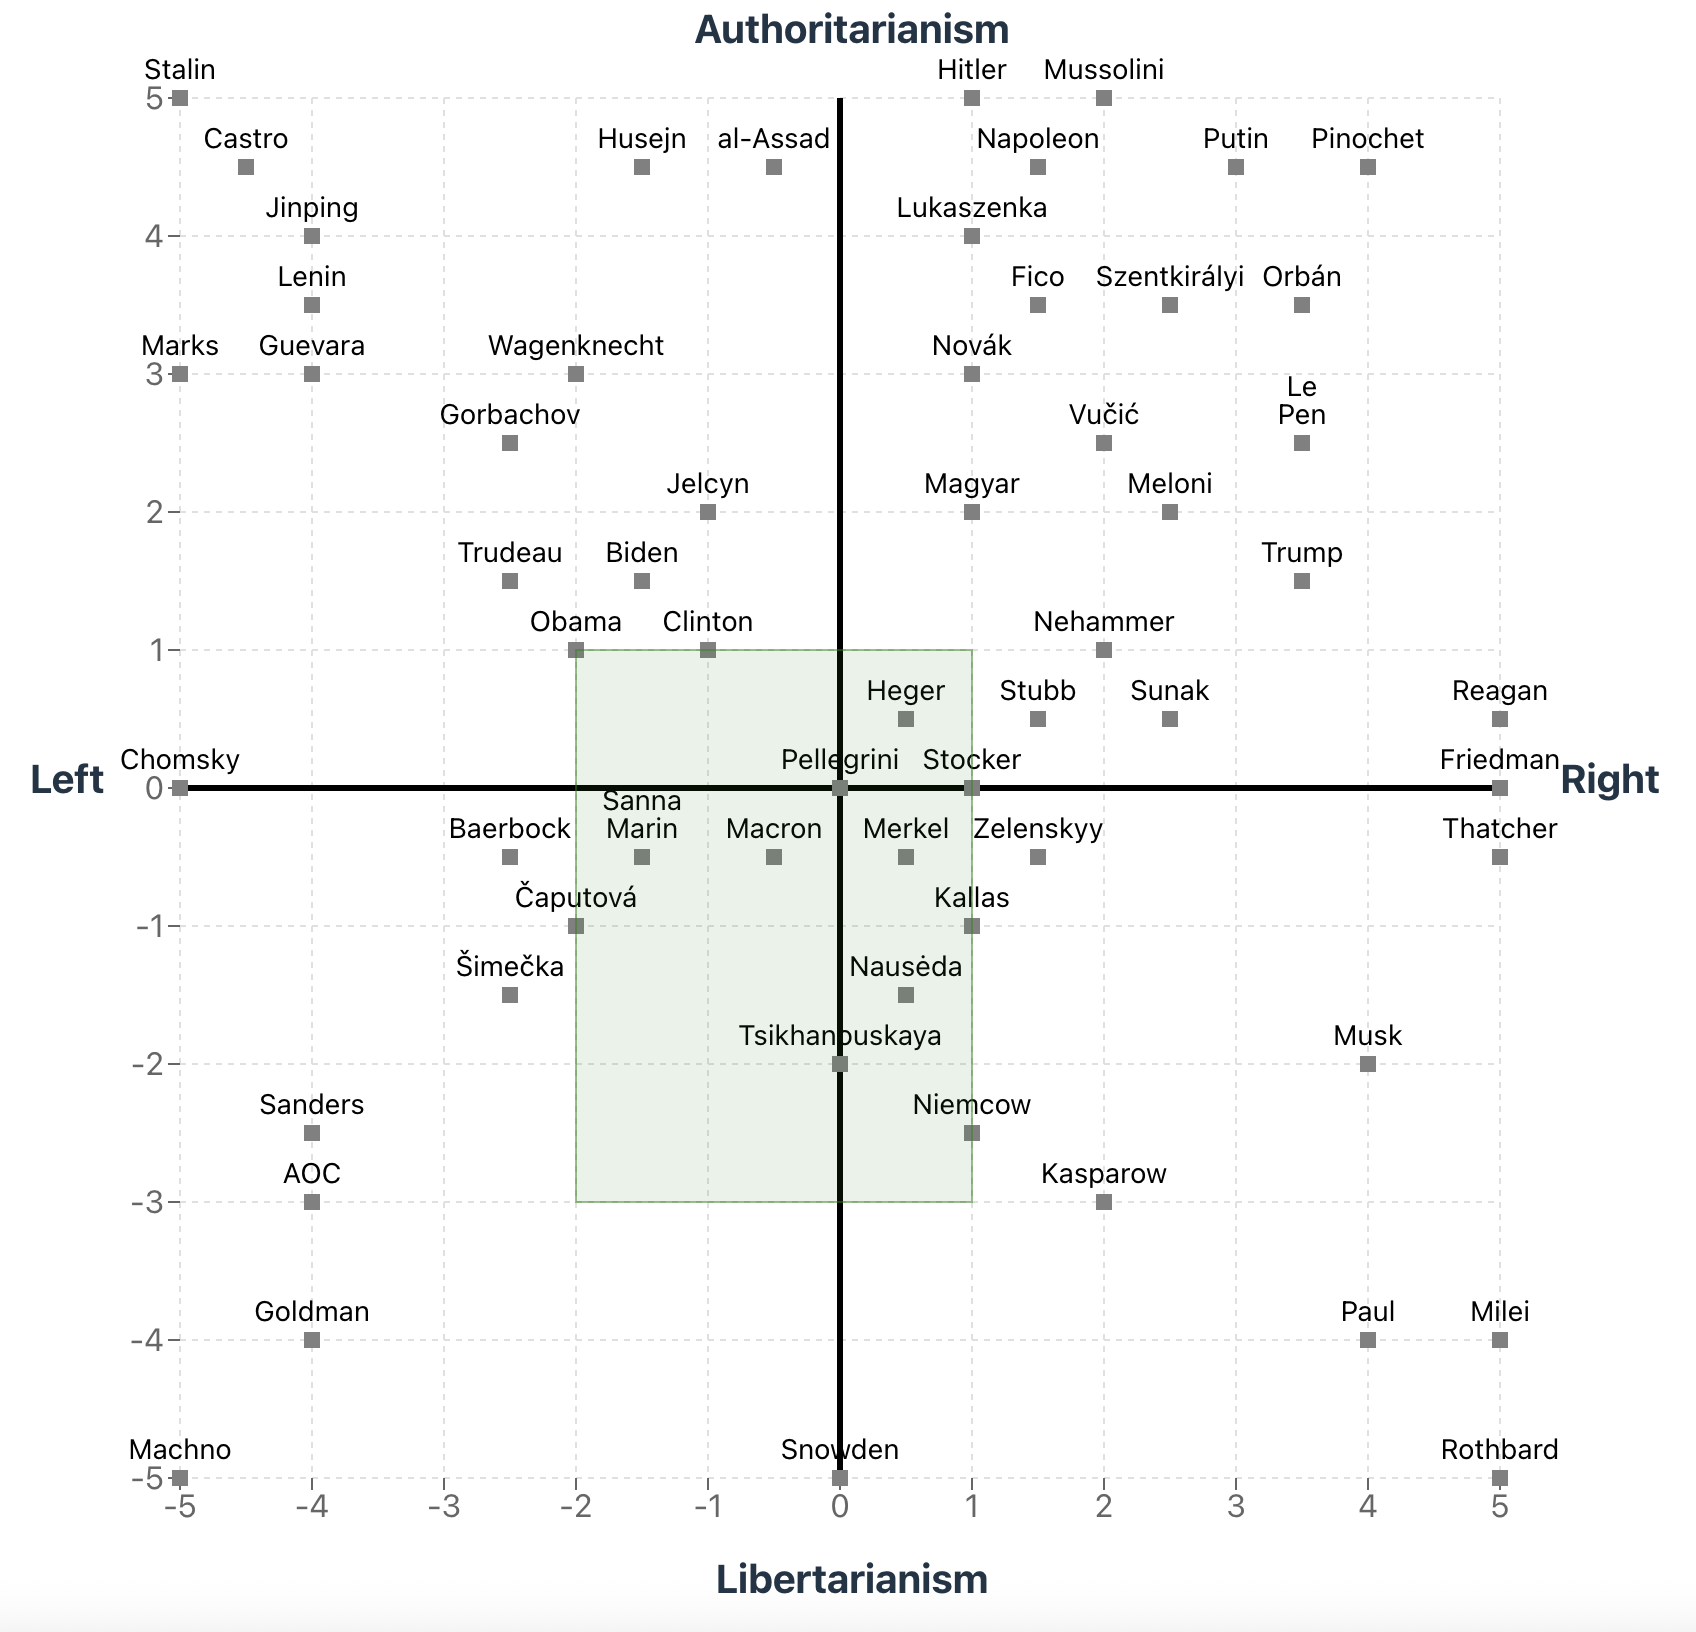
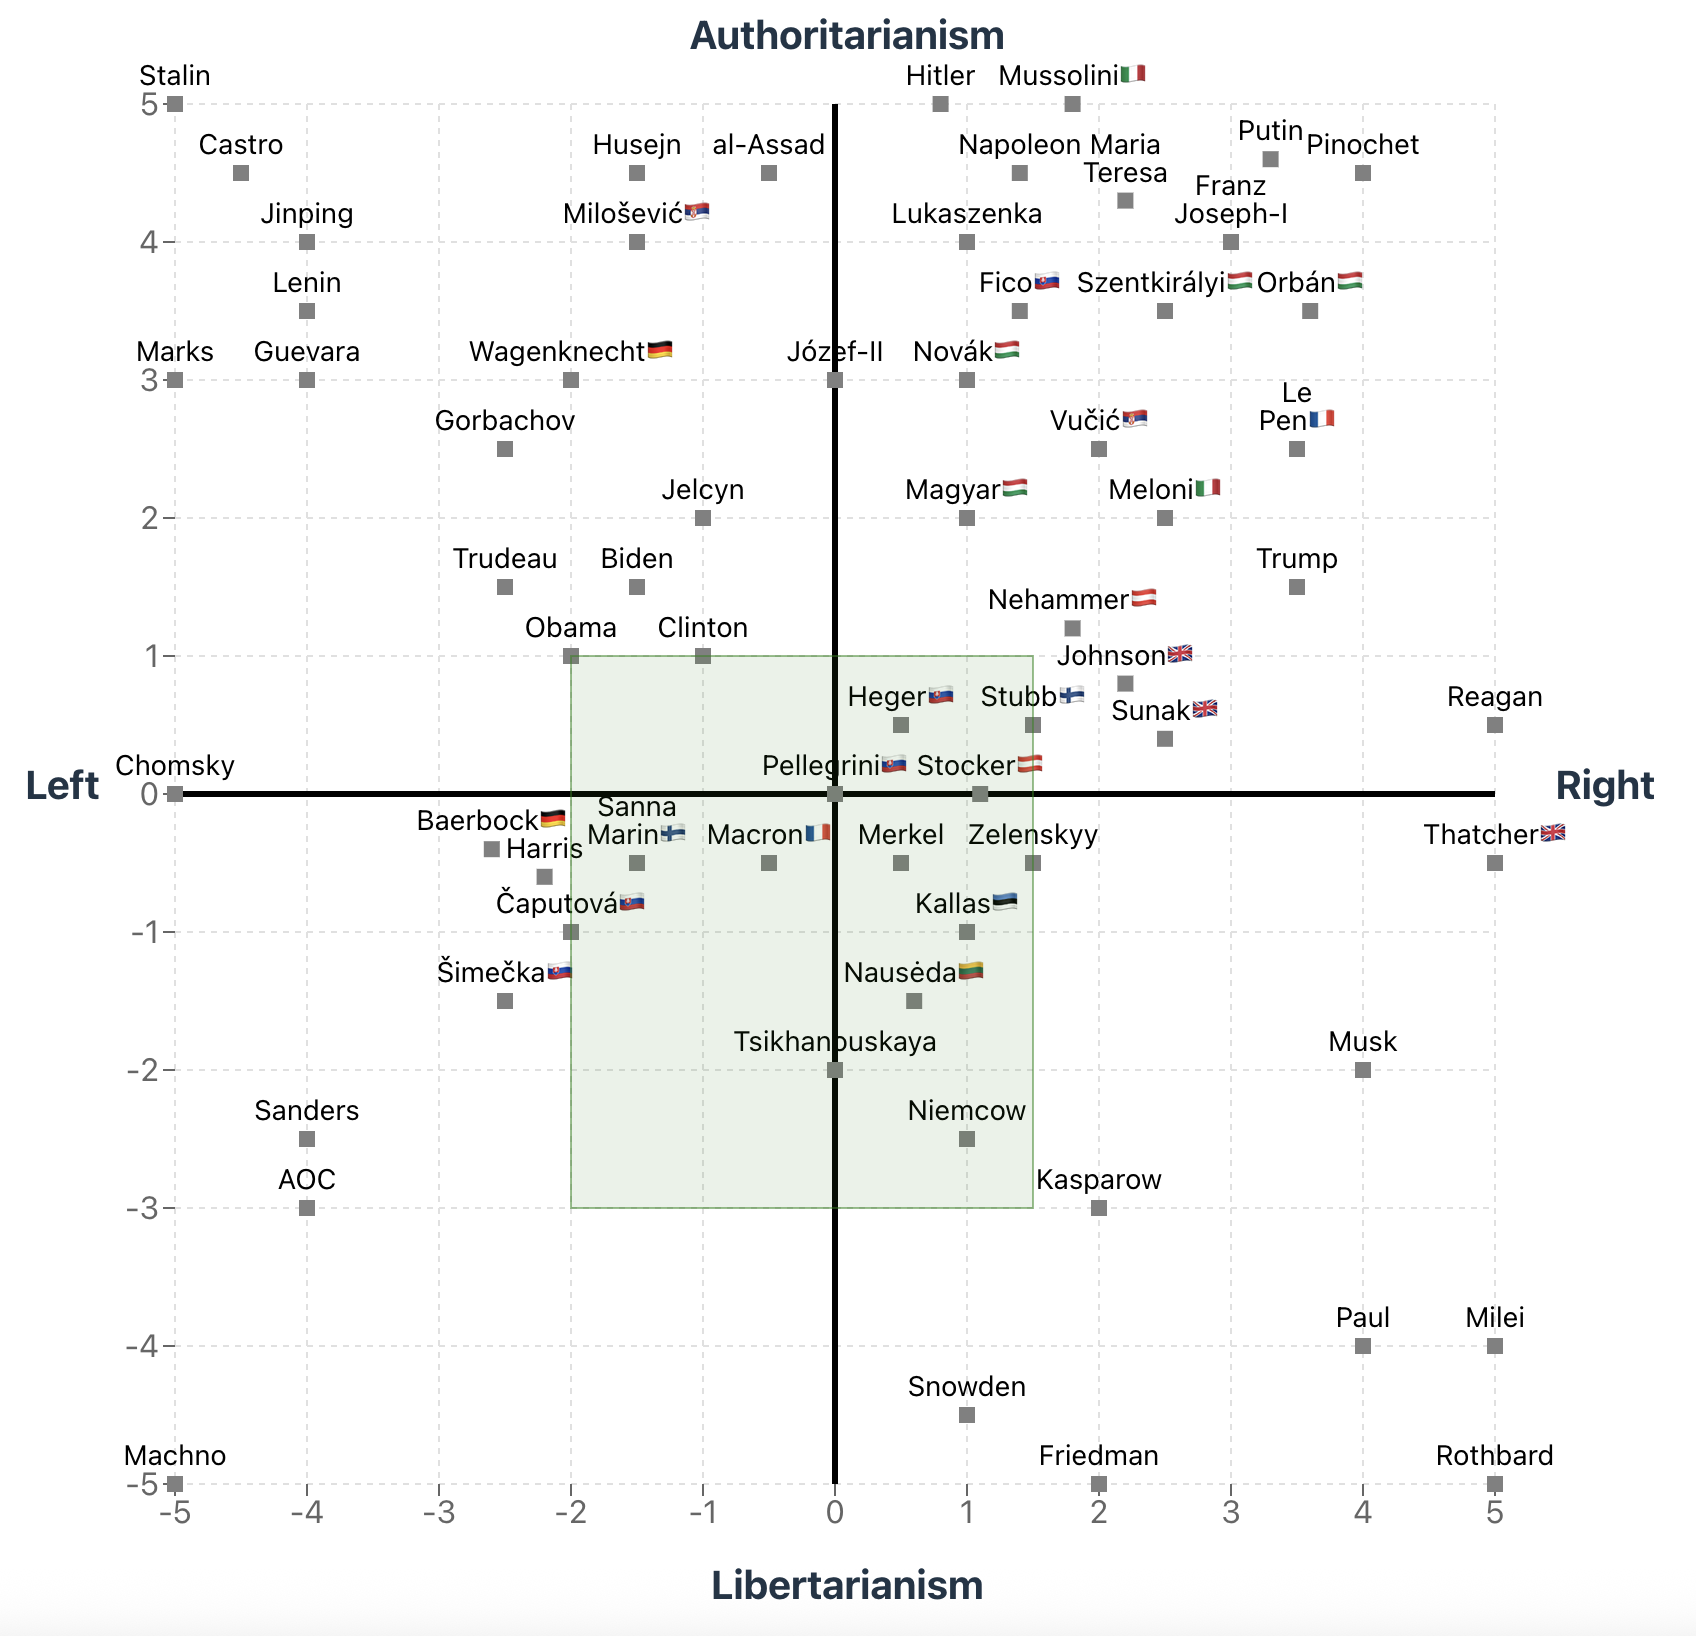
Added flags. And changed data a bit.

diff --git a/src/common/helpers.ts b/src/common/helpers.ts
@@ -69,10 +69,10 @@ export const DEFAULT_SCATTERS_IDS: DataKind[] = ["poland2025", "polandOther"];
 export const getLabelFromKey = (scatterId: DataKind): string => {
   switch (scatterId) {
     case "poland2025":
-      return "Poland (2025)";
+      return "🇵🇱Poland (2025)";
 
     case "polandOther":
-      return "Poland (other)";
+      return "🇵🇱Poland (other)";
 
     case "world":
       return "World";
@@ -84,7 +84,10 @@ export const getLabelFromKey = (scatterId: DataKind): string => {
       return "Europe";
 
     case "ukraine":
-      return "Ukraine";
+      return "🇺🇦Ukraine";
+
+    case "russia":
+      return "🇷🇺russia";
 
     default:
       return scatterId;
